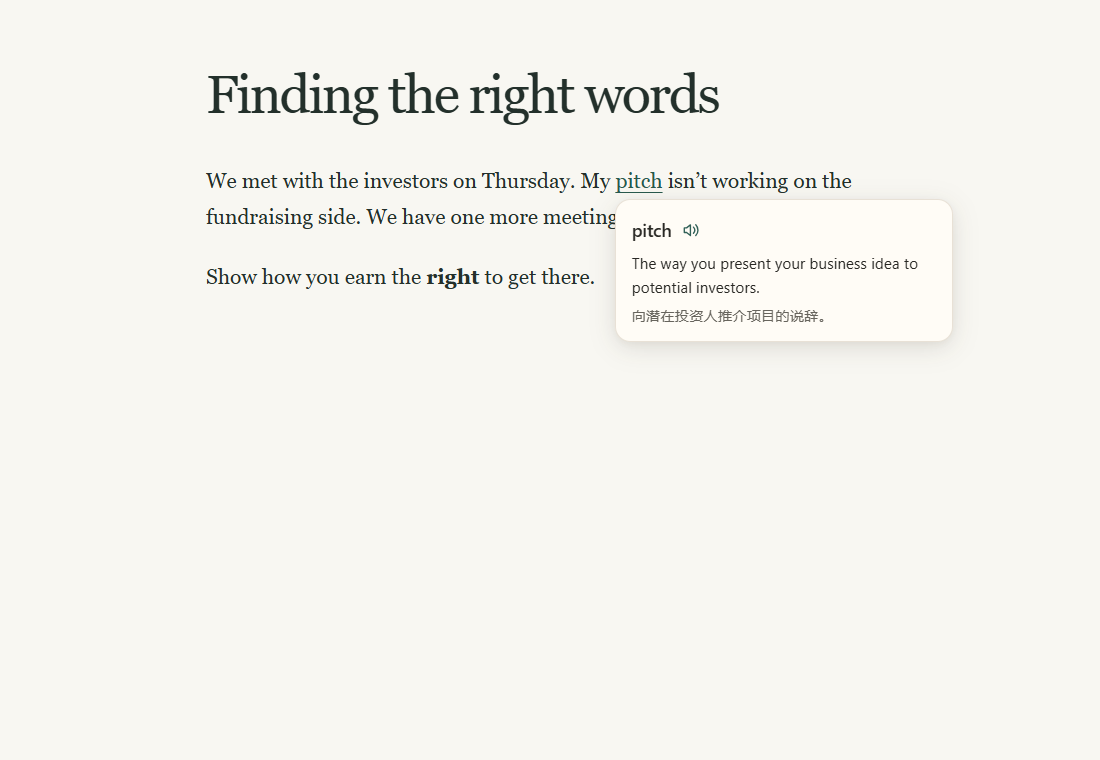
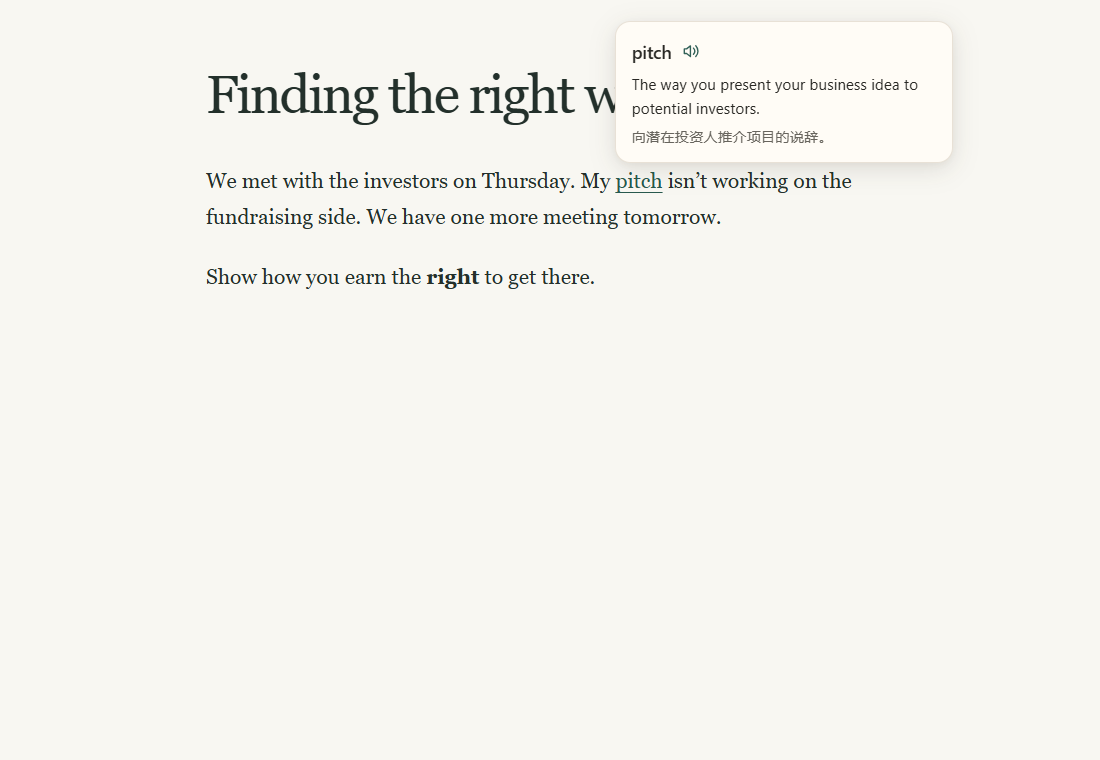
fix: 查词卡片优先显示在原词上方

Changed region(s): [[0.5564, 0.0605, 0.8345, 0.2118], [0.5564, 0.2724, 0.8345, 0.4237]]

diff --git a/tests/browser/reading.spec.ts b/tests/browser/reading.spec.ts
@@ -1,10 +1,11 @@
 import { answer, envelope, expect, sample, test } from './fixture';
 import type { Locator, Route } from '@playwright/test';
 
-async function offsetFromWord(card: Locator, word: Locator) {
+async function offsetFromWord(card: Locator, word: Locator, side: 'above' | 'below') {
   const [panel, text] = await Promise.all([card.boundingBox(), word.boundingBox()]);
   if (!panel || !text) return null;
-  return [Math.round(panel.x - text.x), Math.round(panel.y - text.y - text.height)];
+  const gap = side === 'above' ? text.y - (panel.y + panel.height) : panel.y - (text.y + text.height);
+  return [Math.round(panel.x - text.x), Math.round(gap)];
 }
 
 test('link lookup waits for release, validates the request and renders a bilingual Shadow DOM card', async ({ reader: r }) => {
@@ -41,12 +42,12 @@ test('a Ctrl lookup follows the word on wheel scroll and keeps its pending reply
     await r.tap('#pitch', 2);
     await expect(r.card).toContainText('正在读取');
     await expect.poll(() => r.calls.length).toBe(1);
-    await expect.poll(() => offsetFromWord(r.card, word)).toEqual([0, 6]);
+    await expect.poll(() => offsetFromWord(r.card, word, 'above')).toEqual([0, 6]);
 
     await r.page.mouse.wheel(0, 45);
     await expect.poll(() => r.page.evaluate(() => scrollY)).toBeGreaterThan(30);
     await expect(r.card).toBeVisible();
-    await expect.poll(() => offsetFromWord(r.card, word)).toEqual([0, 6]);
+    await expect.poll(() => offsetFromWord(r.card, word, 'above')).toEqual([0, 6]);
 
     await r.page.mouse.wheel(0, 500);
     await expect.poll(() => word.evaluate(el => el.getBoundingClientRect().bottom)).toBeLessThan(0);
@@ -59,9 +60,41 @@ test('a Ctrl lookup follows the word on wheel scroll and keeps its pending reply
     await r.page.mouse.wheel(0, -700);
     await expect(r.card.locator('.zh')).toBeVisible();
     await r.page.setViewportSize({ width: 850, height: 640 });
-    await expect.poll(() => offsetFromWord(r.card, word)).toEqual([0, 6]);
+    await expect.poll(() => offsetFromWord(r.card, word, 'above')).toEqual([0, 6]);
     expect(r.calls).toHaveLength(1);
   } finally { release(); }
+});
+
+test('a long patches card leaves the next line clear and scrolls internally above the word', async ({ reader: r }) => {
+  await r.page.setViewportSize({ width: 800, height: 600 });
+  await r.open('<article style="padding-top:145px"><p>Open source has always said “<span id="word">patches</span> welcome”.</p>' +
+    '<p>Keep reading the next line.</p></article>');
+  r.respond = (route, call) => route.fulfill({ json: envelope({ ...answer(call.input),
+    meaning_en: 'Changes to software code that fix a problem or improve a program.',
+    meaning_zh: '为修复问题或改进程序而做的软件代码修改。',
+    note_en: 'The project welcomes contributions that improve its code. '.repeat(5)
+  }) });
+  await r.tap('#word');
+  const word = r.page.locator('#word'), panel = r.card.locator('article');
+  const above = () => offsetFromWord(r.card, word, 'above');
+  await expect(r.card.locator('.zh')).toHaveText('为修复问题或改进程序而做的软件代码修改。');
+  await expect.poll(above).toEqual([0, 6]);
+  await r.card.getByRole('button', { name: 'More' }).click();
+  await expect.poll(above).toEqual([0, 6]);
+  await expect.poll(() => panel.evaluate(el => Math.round(el.getBoundingClientRect().top))).toBe(8);
+  await panel.evaluate(el => { el.scrollTop = 0; });
+  await panel.hover();
+  await r.page.mouse.wheel(0, 60);
+  await expect.poll(() => panel.evaluate(el => el.scrollTop)).toBeGreaterThan(0);
+  expect(await r.page.evaluate(() => scrollY)).toBe(0);
+  await expect.poll(above).toEqual([0, 6]);
+
+  await r.page.evaluate(() => scrollTo(0, 125));
+  await expect.poll(() => offsetFromWord(r.card, word, 'below')).toEqual([0, 6]);
+  await r.page.evaluate(() => scrollTo(0, 0));
+  await expect.poll(above).toEqual([0, 6]);
+  await expect(r.card.getByRole('button', { name: 'Less' })).toHaveAttribute('aria-expanded', 'true');
+  expect(r.calls).toHaveLength(1);
 });
 
 test('one open card scales, rewraps and stays anchored as the window resizes', async ({ reader: r }) => {
@@ -88,7 +121,7 @@ test('one open card scales, rewraps and stays anchored as the window resizes', a
   expect(narrow).toMatchObject({ width: 240, font: 14 });
   await r.page.setViewportSize({ width: 1000, height: 500 });
   await expect(panel).toHaveCSS('width', '320px');
-  await expect.poll(() => offsetFromWord(r.card, word)).toEqual([0, 6]);
+  await expect.poll(() => offsetFromWord(r.card, word, 'below')).toEqual([0, 6]);
 
   await r.page.setViewportSize({ width: 1800, height: 500 });
   const wide = await metrics();
@@ -99,15 +132,25 @@ test('one open card scales, rewraps and stays anchored as the window resizes', a
   expect(wide.padding).toBeGreaterThan(narrow.padding);
   await r.page.setViewportSize({ width: 480, height: 500 });
   await expect.poll(metrics).toEqual(narrow);
-  await expect.poll(() => offsetFromWord(r.card, word)).toEqual([0, 6]);
+  await expect.poll(() => offsetFromWord(r.card, word, 'below')).toEqual([0, 6]);
 
   await r.page.setViewportSize({ width: 220, height: 110 });
   await expect.poll(() => panel.evaluate(el => {
     const rect = el.getBoundingClientRect();
-    return [rect.left, rect.top, document.documentElement.clientWidth - rect.right, document.documentElement.clientHeight - rect.bottom];
-  })).toEqual([8, 8, 8, 8]);
+    const wordBottom = document.querySelector('#word')!.getBoundingClientRect().bottom;
+    return [rect.left, Math.round(rect.top - wordBottom), document.documentElement.clientWidth - rect.right, document.documentElement.clientHeight - rect.bottom];
+  })).toEqual([8, 6, 8, 8]);
   const scrollTop = await panel.evaluate(el => { el.scrollTop = el.scrollHeight; return el.scrollTop; });
   expect(scrollTop).toBeGreaterThan(0);
+
+  await word.evaluate(el => { el.style.cssText = 'position:fixed;top:0;left:8px;font:100px/1 Georgia'; });
+  await r.page.setViewportSize({ width: 221, height: 110 });
+  await expect.poll(() => panel.evaluate(el => {
+    const rect = el.getBoundingClientRect(), style = getComputedStyle(el);
+    const contentHeight = el.clientHeight - parseFloat(style.paddingTop) - parseFloat(style.paddingBottom);
+    return rect.top >= 7 && rect.bottom <= document.documentElement.clientHeight - 7
+      && contentHeight >= Math.floor(parseFloat(style.lineHeight));
+  })).toBe(true);
   expect(r.calls).toHaveLength(1);
 });
 
@@ -120,7 +163,7 @@ test('a lookup follows the pointed word fragment within a nested scroll containe
   await expect(r.card.locator('.zh')).toBeVisible();
   await r.page.mouse.wheel(60, 45);
   await expect.poll(() => pane.evaluate(el => [el.scrollLeft, el.scrollTop])).toEqual([60, 45]);
-  await expect.poll(() => offsetFromWord(r.card, part)).toEqual([0, 6]);
+  await expect.poll(() => offsetFromWord(r.card, part, 'above')).toEqual([0, 6]);
 
   await r.page.mouse.wheel(0, 195);
   await expect.poll(() => pane.evaluate(el => el.scrollTop)).toBe(240);
@@ -129,7 +172,7 @@ test('a lookup follows the pointed word fragment within a nested scroll containe
   await expect(r.card).toBeHidden();
   await pane.evaluate(el => el.scrollTo(30, 20));
   await expect(r.card.locator('.zh')).toBeVisible();
-  await expect.poll(() => offsetFromWord(r.card, part)).toEqual([0, 6]);
+  await expect.poll(() => offsetFromWord(r.card, part, 'above')).toEqual([0, 6]);
   expect(r.calls).toHaveLength(1);
 });
 
@@ -216,7 +259,7 @@ test('preceding sentence resolves This; insufficient context and different sense
   expect(r.calls).toHaveLength(5);
 });
 test('mouse selection alone is silent; menu command explains exact phrase', async ({ reader: r }) => {
-  await r.open('<article><p>We have to <span id="phrase">break the ice</span> before the meeting.</p></article>');
+  await r.open('<article style="padding-top:220px"><p>We have to <span id="phrase">break the ice</span> before the meeting.</p></article>');
   const b = (await r.page.locator('#phrase').boundingBox())!;
   const y = b.y + b.height / 2;
   await r.page.mouse.move(b.x, y); await r.page.mouse.down();
@@ -230,7 +273,7 @@ test('mouse selection alone is silent; menu command explains exact phrase', asyn
   expect(r.calls[0]!.input.selected_text).toBe('break the ice');
   await r.page.mouse.wheel(0, 25);
   await expect.poll(() => r.page.evaluate(() => scrollY)).toBeGreaterThan(0);
-  await expect.poll(() => offsetFromWord(r.card, r.page.locator('#phrase'))).toEqual([0, 6]);
+  await expect.poll(() => offsetFromWord(r.card, r.page.locator('#phrase'), 'above')).toEqual([0, 6]);
 });
 test('in-flight A cannot replace B, and closing or navigating invalidates pending results', async ({ reader: r }) => {
   const held: { release: () => void; route: Route }[] = [];
@@ -293,12 +336,16 @@ test('shows each validated line while the stream is open and only caches a succe
   await r.open();
   await r.tap('#right');
   await expect.poll(requests).toBe(1);
+  const offset = () => offsetFromWord(r.card, r.page.locator('#right'), 'above');
+  await expect.poll(offset).toEqual([0, 6]);
   await emit({ type: 'response.output_text.delta', delta: JSON.stringify(first).slice(0, -1) });
   await expect(r.card).toContainText(first.meaning_en);
+  await expect.poll(offset).toEqual([0, 6]);
   await expect(r.card.getByRole('heading')).toHaveText(first.target);
   await expect(r.card.locator('.zh')).toHaveCount(0);
   await emit({ type: 'response.output_text.delta', delta: ',"meaning_zh":' + JSON.stringify(final.meaning_zh) });
   await expect(r.card.locator('.zh')).toHaveText(final.meaning_zh);
+  await expect.poll(offset).toEqual([0, 6]);
   await expect(r.card.getByRole('button', { name: 'More' })).toHaveCount(0);
   await emit({ type: 'response.incomplete' });
   await expect(r.card).toContainText('没有返回完整释义');

diff --git a/dist/js/content.js b/dist/js/content.js
@@ -367,7 +367,7 @@
   };
 
   // src/content/card.css
-  var card_default = ':host {\r\n  all: initial;\r\n  display: flex !important;\r\n  flex-direction: column !important;\r\n  position: fixed !important;\r\n  box-sizing: border-box !important;\r\n  inset: auto;\r\n  width: clamp(240px, 140px + 18vw, 420px) !important;\r\n  min-width: 0 !important;\r\n  max-width: calc(100% - 16px) !important;\r\n  height: auto !important;\r\n  max-height: calc(100% - 16px) !important;\r\n  padding: 0 !important;\r\n  margin: 0 !important;\r\n  border: 0 !important;\r\n  background: transparent !important;\r\n  overflow: visible !important;\r\n  z-index: 2147483647 !important;\r\n  color-scheme: light dark;\r\n}\r\n:host([hidden]) { display: none !important; }\r\n:host::backdrop { background: transparent; pointer-events: none; }\r\n* { box-sizing: border-box; }\r\narticle {\r\n  --paper: #fffcf6; --ink: #292824; --sub: #67645d; --line: #e8e1d6; --accent: #316057;\r\n  font: clamp(14px, 12px + 0.3vw, 17px)/1.55 "Segoe UI", "Microsoft YaHei", system-ui, sans-serif;\r\n  color: var(--ink); background: var(--paper); border: 1px solid var(--line);\r\n  border-radius: 1em; padding: 1em;\r\n  box-shadow: 0 6px 24px rgb(45 36 22 / .13), 0 2px 5px rgb(45 36 22 / .04);\r\n  overflow-wrap: anywhere; overflow-y: auto;\r\n  min-height: 0; text-align: start; direction: ltr;\r\n  animation: enter 130ms ease-out;\r\n}\r\n@keyframes enter { from { opacity: 0; } to { opacity: 1; } }\r\n@media (prefers-reduced-motion: reduce) { article { animation: none; } }\r\n@media (prefers-color-scheme: dark) {\r\n  article { --paper: #292925; --ink: #f5f1e8; --sub: #c0bcb1; --line: #4b4b43; --accent: #acd7c2; }\r\n}\r\narticle:focus { outline: none; }\r\n.heading { display: flex; align-items: center; gap: .35em; margin-bottom: .45em; }\r\nh2 { font: 600 1.15em/1.32 "Segoe UI", system-ui, sans-serif; min-width: 0; margin: 0; color: var(--ink); }\r\np { margin: 0; }\r\n.zh, .status, .note { font-size: .94em; color: var(--sub); }\r\n.zh { margin-top: .38em; }\r\nbutton {\r\n  appearance: none; border: 0; border-radius: 4px; background: transparent; color: var(--accent);\r\n  font: 600 .86em/1.5 "Segoe UI", system-ui, sans-serif; padding: .25em .18em; margin-top: .65em; cursor: pointer;\r\n}\r\nbutton:hover { text-decoration: underline; }\r\nbutton:focus-visible { outline: 2px solid var(--accent); outline-offset: 2px; }\r\n.pronounce {\r\n  flex: none; display: grid; place-items: center; width: 1.85em; height: 1.85em;\r\n  font-size: 1em; margin: 0; padding: 0; border-radius: 50%;\r\n}\r\n.pronounce:hover, .pronounce[aria-disabled="true"] { background: var(--line); }\r\n.pronounce[aria-disabled="true"] { cursor: default; }\r\n.pronounce svg {\r\n  width: 1.2em; height: 1.2em; fill: none; stroke: currentColor;\r\n  stroke-width: 1.8; stroke-linecap: round; stroke-linejoin: round;\r\n}\r\n@media (pointer: coarse) { .pronounce { min-width: 44px; min-height: 44px; } }\r\n.speech-message:empty { display: none; }\r\n.speech-message { margin-bottom: .4em; }\r\n.note { margin-top: .45em; padding-top: .6em; border-top: 1px solid var(--line); }\r\n';
+  var card_default = ':host {\n  all: initial;\n  display: flex !important;\n  flex-direction: column !important;\n  position: fixed !important;\n  box-sizing: border-box !important;\n  inset: auto;\n  width: clamp(240px, 140px + 18vw, 420px) !important;\n  min-width: 0 !important;\n  max-width: calc(100% - 16px) !important;\n  height: auto !important;\n  max-height: calc(100% - 16px) !important;\n  padding: 0 !important;\n  margin: 0 !important;\n  border: 0 !important;\n  background: transparent !important;\n  overflow: visible !important;\n  z-index: 2147483647 !important;\n  color-scheme: light dark;\n}\n:host([hidden]) { display: none !important; }\n:host::backdrop { background: transparent; pointer-events: none; }\n* { box-sizing: border-box; }\narticle {\n  --paper: #fffcf6; --ink: #292824; --sub: #67645d; --line: #e8e1d6; --accent: #316057;\n  font: clamp(14px, 12px + 0.3vw, 17px)/1.55 "Segoe UI", "Microsoft YaHei", system-ui, sans-serif;\n  color: var(--ink); background: var(--paper); border: 1px solid var(--line);\n  border-radius: 1em; padding: 1em;\n  box-shadow: 0 6px 24px rgb(45 36 22 / .13), 0 2px 5px rgb(45 36 22 / .04);\n  overflow-wrap: anywhere; overflow-y: auto; scrollbar-gutter: stable;\n  min-height: 0; text-align: start; direction: ltr;\n  animation: enter 130ms ease-out;\n}\n@keyframes enter { from { opacity: 0; } to { opacity: 1; } }\n@media (prefers-reduced-motion: reduce) { article { animation: none; } }\n@media (prefers-color-scheme: dark) {\n  article { --paper: #292925; --ink: #f5f1e8; --sub: #c0bcb1; --line: #4b4b43; --accent: #acd7c2; }\n}\narticle:focus { outline: none; }\n.heading { display: flex; align-items: center; gap: .35em; margin-bottom: .45em; }\nh2 { font: 600 1.15em/1.32 "Segoe UI", system-ui, sans-serif; min-width: 0; margin: 0; color: var(--ink); }\np { margin: 0; }\n.zh, .status, .note { font-size: .94em; color: var(--sub); }\n.zh { margin-top: .38em; }\nbutton {\n  appearance: none; border: 0; border-radius: 4px; background: transparent; color: var(--accent);\n  font: 600 .86em/1.5 "Segoe UI", system-ui, sans-serif; padding: .25em .18em; margin-top: .65em; cursor: pointer;\n}\nbutton:hover { text-decoration: underline; }\nbutton:focus-visible { outline: 2px solid var(--accent); outline-offset: 2px; }\n.pronounce {\n  flex: none; display: grid; place-items: center; width: 1.85em; height: 1.85em;\n  font-size: 1em; margin: 0; padding: 0; border-radius: 50%;\n}\n.pronounce:hover, .pronounce[aria-disabled="true"] { background: var(--line); }\n.pronounce[aria-disabled="true"] { cursor: default; }\n.pronounce svg {\n  width: 1.2em; height: 1.2em; fill: none; stroke: currentColor;\n  stroke-width: 1.8; stroke-linecap: round; stroke-linejoin: round;\n}\n@media (pointer: coarse) { .pronounce { min-width: 44px; min-height: 44px; } }\n.speech-message:empty { display: none; }\n.speech-message { margin-bottom: .4em; }\n.note { margin-top: .45em; padding-top: .6em; border-top: 1px solid var(--line); }\n';
 
   // src/content/card.ts
   var messages = {
@@ -423,6 +423,7 @@
       this.position();
       this.panel.focus({ preventScroll: true });
       this.resize.observe(this.panel);
+      this.resize.observe(this.title);
     }
     getAnchorRect;
     target;
@@ -437,7 +438,7 @@
     english = element("p");
     chinese = element("p", void 0, "zh");
     previousFocus = document.activeElement;
-    resize = new ResizeObserver(() => this.position());
+    resize = new ResizeObserver(() => this.schedulePosition());
     frame = null;
     schedulePosition() {
       if (this.frame !== null) return;
@@ -451,15 +452,27 @@
       const rect = this.getAnchorRect();
       this.host.toggleAttribute("hidden", !rect);
       if (!rect) return;
-      const { width, height } = this.panel.getBoundingClientRect();
+      const panel = this.panel.getBoundingClientRect();
       const viewport = document.compatMode === "BackCompat" ? document.body : document.documentElement;
       const { clientWidth, clientHeight } = viewport;
       const margin = 8, gap = 6;
-      const x = Math.max(margin, Math.min(rect.left, clientWidth - width - margin));
-      const below = rect.bottom + gap;
-      const y = below + height <= clientHeight - margin ? below : Math.max(margin, rect.top - height - gap);
+      const x = Math.max(margin, Math.min(rect.left, clientWidth - panel.width - margin));
+      const bottomInset = Math.max(margin, clientHeight - rect.top + gap);
+      const topInset = Math.max(margin, rect.bottom + gap);
+      const spaceAbove = clientHeight - bottomInset - margin;
+      const spaceBelow = clientHeight - topInset - margin;
+      const bodyStart = this.body.getBoundingClientRect().top - panel.top + this.panel.scrollTop;
+      const style = getComputedStyle(this.panel);
+      const lineHeight = parseFloat(style.lineHeight);
+      const bottomPadding = parseFloat(style.paddingBottom) + parseFloat(style.borderBottomWidth);
+      const readableHeight = bodyStart + 2 * lineHeight + bottomPadding;
+      const above = spaceAbove >= readableHeight || spaceAbove >= spaceBelow;
+      const oneLine = parseFloat(style.borderTopWidth) + parseFloat(style.paddingTop) + Math.floor(lineHeight) + bottomPadding;
+      const inset = Math.min(above ? bottomInset : topInset, Math.max(margin, clientHeight - margin - oneLine));
+      this.panel.style.maxHeight = Math.max(0, clientHeight - inset - margin) + "px";
       this.host.style.setProperty("left", x + "px", "important");
-      this.host.style.setProperty("top", Math.min(y, Math.max(margin, clientHeight - height - margin)) + "px", "important");
+      this.host.style.setProperty("top", above ? "auto" : inset + "px", "important");
+      this.host.style.setProperty("bottom", above ? inset + "px" : "auto", "important");
     }
     button(label, action) {
       const button = element("button", label);

diff --git a/src/content/card.ts b/src/content/card.ts
@@ -28,7 +28,7 @@ export class Card {
   private english = element('p');
   private chinese = element('p', undefined, 'zh');
   private previousFocus = document.activeElement;
-  private resize = new ResizeObserver(() => this.position());
+  private resize = new ResizeObserver(() => this.schedulePosition());
   private frame: number | null = null;
 
   constructor(
@@ -59,6 +59,7 @@ export class Card {
     this.position();
     this.panel.focus({ preventScroll: true });
     this.resize.observe(this.panel);
+    this.resize.observe(this.title);
   }
   schedulePosition() {
     if (this.frame !== null) return;
@@ -72,15 +73,30 @@ export class Card {
     const rect = this.getAnchorRect();
     this.host.toggleAttribute('hidden', !rect);
     if (!rect) return;
-    const { width, height } = this.panel.getBoundingClientRect();
+    const panel = this.panel.getBoundingClientRect();
     const viewport = document.compatMode === 'BackCompat' ? document.body : document.documentElement;
     const { clientWidth, clientHeight } = viewport;
     const margin = 8, gap = 6;
-    const x = Math.max(margin, Math.min(rect.left, clientWidth - width - margin));
-    const below = rect.bottom + gap;
-    const y = below + height <= clientHeight - margin ? below : Math.max(margin, rect.top - height - gap);
+    const x = Math.max(margin, Math.min(rect.left, clientWidth - panel.width - margin));
+    const bottomInset = Math.max(margin, clientHeight - rect.top + gap);
+    const topInset = Math.max(margin, rect.bottom + gap);
+    const spaceAbove = clientHeight - bottomInset - margin;
+    const spaceBelow = clientHeight - topInset - margin;
+
+    // Measure where definitions start, even when the panel is scrolled internally.
+    const bodyStart = this.body.getBoundingClientRect().top - panel.top + this.panel.scrollTop;
+    const style = getComputedStyle(this.panel);
+    const lineHeight = parseFloat(style.lineHeight);
+    const bottomPadding = parseFloat(style.paddingBottom) + parseFloat(style.borderBottomWidth);
+    const readableHeight = bodyStart + 2 * lineHeight + bottomPadding;
+    const above = spaceAbove >= readableHeight || spaceAbove >= spaceBelow;
+    // An oversized glyph can fill a short viewport. Keep one line available to scroll through.
+    const oneLine = parseFloat(style.borderTopWidth) + parseFloat(style.paddingTop) + Math.floor(lineHeight) + bottomPadding;
+    const inset = Math.min(above ? bottomInset : topInset, Math.max(margin, clientHeight - margin - oneLine));
+    this.panel.style.maxHeight = Math.max(0, clientHeight - inset - margin) + 'px';
     this.host.style.setProperty('left', x + 'px', 'important');
-    this.host.style.setProperty('top', Math.min(y, Math.max(margin, clientHeight - height - margin)) + 'px', 'important');
+    this.host.style.setProperty('top', above ? 'auto' : inset + 'px', 'important');
+    this.host.style.setProperty('bottom', above ? inset + 'px' : 'auto', 'important');
   }
   private button(label: string, action: () => void) {
     const button = element('button', label);

diff --git a/src/content/card.css b/src/content/card.css
@@ -27,7 +27,7 @@ article {
   color: var(--ink); background: var(--paper); border: 1px solid var(--line);
   border-radius: 1em; padding: 1em;
   box-shadow: 0 6px 24px rgb(45 36 22 / .13), 0 2px 5px rgb(45 36 22 / .04);
-  overflow-wrap: anywhere; overflow-y: auto;
+  overflow-wrap: anywhere; overflow-y: auto; scrollbar-gutter: stable;
   min-height: 0; text-align: start; direction: ltr;
   animation: enter 130ms ease-out;
 }

diff --git a/README.md b/README.md
@@ -22,6 +22,7 @@
 | 查一个短语 | 在同一段或同一条 X 帖子正文内拖选英文，右键选择「用 Context 解释」。 |
 | 听单词或短语的发音 | 点击标题旁的喇叭，或用 Tab 聚焦后按 Enter 或空格。等待释义时即可听原词，标题扩展为短语时可听完整短语。播完可再次点击。 |
 | 看补充说明 | 有补充时卡片才显示 More。也可用 Tab 聚焦，再按 Enter。 |
+| 查看原词旁的释义 | 卡片优先在原词上方打开，长释义可在卡片内滚动。原词靠近窗口顶端时，卡片会移到下方。 |
 | 滚动时继续看释义 | 卡片跟着原词移动。原词滚出可见区域时，卡片暂时隐藏，滚回来即可继续看同一次查询。 |
 | 调整阅读窗口 | 拖动 Edge 窗口边缘，已打开的卡片、文字和留白会一起缩放。窗口较矮时，可以在卡片内滚动查看完整释义。 |
 | 关闭卡片 | 按 Esc、点卡片外或切换页面。换词会作废上一条结果。 |
@@ -74,7 +75,7 @@ npm run test:e2e
 | --- | --- |
 | 类型检查、esbuild 构建 | 通过 |
 | Vitest | 45 项通过，覆盖分词、精确位置、上下文预算、缓存、手势、流式响应和样例完整性。 |
-| Playwright 自带 Chromium、Windows 正式版 Microsoft Edge 157.0.4341.60 | 两个浏览器各 28 项通过，覆盖窗口缩放、滚动定位、词与短语的点击和键盘朗读、语音错误恢复、流式释义、缓存和设置。 |
+| Playwright 自带 Chromium、Windows 正式版 Microsoft Edge 157.0.4341.60 | 两个浏览器各 29 项通过，覆盖原词上方定位、长释义滚动、窗口缩放、滚动跟随、词与短语的点击和键盘朗读、语音错误恢复、流式释义、缓存和设置。 |
 | Windows Edge 实际发音 | 在未配置 OpenAI Key 的测试配置中点击 sabbatical，Edge 使用 Microsoft Ava 在线美式英语声音完成朗读，Windows 音频输出端测到播放信号。 |
 | Linux 正式版 Microsoft Edge 158.0.4370.33 | V1 初版的 22 项通过。另在有界面的 Edge 中拖选短语并点击原生菜单，拖选时请求数为 0，点击菜单后为 1。 |
 | 普通键鼠行为 | 普通悬停、拖选、双击、复制、Ctrl 组合键、Ctrl 单击链接、Ctrl 滚轮和编辑器操作均有零 API 请求断言。 |
